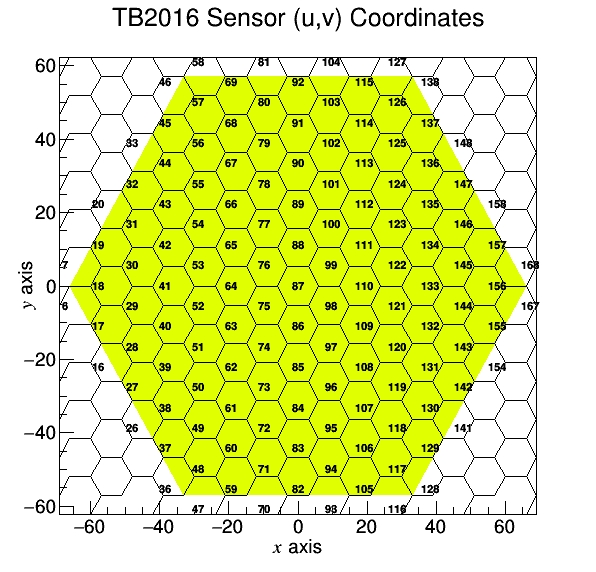
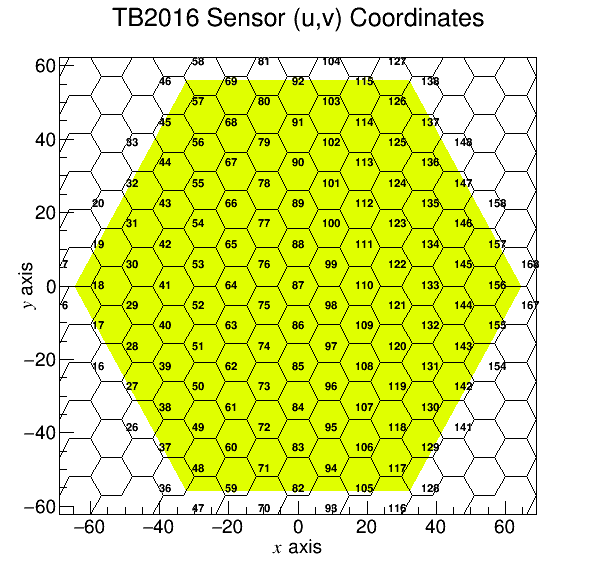
add more info to createIDMap

diff --git a/bin/createIDMap.cc b/bin/createIDMap.cc
@@ -42,9 +42,9 @@ int main()
   hsensor.SetName("hsensor");
   hsensor.SetTitle("sensor");
 
-  // make slightly larger than reality, so that we include
+  // make slightly smaller so that we identify
   // mouse bitten cells
-  double S = 1.0001*SIDE;
+  double S = 0.98*SIDE;
   double H = S*sqrt(3)/2;  // center to side distance
   double x[7], y[7];
   x[0] = -S/2; y[0] = -H;
@@ -55,10 +55,10 @@ int main()
   x[5] =  S/2; y[5] = -H;
   x[6] = -S/2; y[6] = -H;
   hsensor.AddBin(7, x, y);
-  // get the single hexagonal bin that represents
-  // the boundary of sensor
-  //TIter it(hsensor.GetBins());
-  //TH2PolyBin* sensor = (TH2PolyBin*)it();
+  //get the single hexagonal bin that represents
+  //the boundary of sensor
+  TIter it(hsensor.GetBins());
+  TH2PolyBin* sensor = (TH2PolyBin*)it();
 
   // loop over bins in 2-D histogram, determine which
   // ones lie within sensor, and write out the bin
@@ -89,15 +89,14 @@ int main()
 
   char record[80];
   ofstream sout("sensor_cellid_uv_map.txt");
-  sprintf(record, "%6s\t%6s %6s %6s\t%10s %10s",
-	  "", "cellid", "u", "v", "x", "y");
+  sprintf(record, "%6s %6s %6s %6s\t%10s %10s",
+	  "posid", "cellid", "u", "v", "x", "y");
   cout << record << endl;
   sout << record << endl;
 
   // loop
   TList* bins = map->GetBins();
   TIter next(bins);
-  int ncell = 0;
   TText text;
   text.SetTextSize(0.02);
   text.SetTextAlign(22);  // centered
@@ -171,6 +170,36 @@ int main()
       x *= 10; // change to mm
       y *= 10;
 
+      int posid = 0;
+      if ( ! sensor->IsInside(x, y) )
+	{
+	  // boundary cell, determine type
+	  if ( v > 3 )
+	    {
+	      // either lower or upper left
+	      if ( u < -3 )
+		posid = 3; // upper
+	      else
+		posid = 4; // lower
+	    }
+	  else if ( v < -3 )
+	    {
+	      // either lower or upper right
+	      if ( u > 3 )
+		posid = 6; // lower
+	      else
+		posid = 1; // upper
+	    }
+	  else
+	    {
+	      // either lower or upper
+	      if ( u > 0 )
+		posid = 5; // lower
+	      else
+		posid = 2; // upper
+	    }
+	}
+
       csensor.cd();
       sprintf(record, "%d", binnumber);
       text.DrawText(x, y, record); 
@@ -179,12 +208,10 @@ int main()
       sprintf(record, "%d,%d", u, v);
       text.DrawText(x, y, record); 
 
-      sprintf(record, "%6d\t%6d %6d %6d\t%10.3f %10.3f", 
-	      ncell, binnumber, u, v, x, y);
+      sprintf(record, "%6d %6d %6d %6d\t%10.3f %10.3f", 
+	      posid, binnumber, u, v, x, y);
       cout << record << endl;
       sout << record << endl;
-      
-      ncell++;
     }
   sout.close();
 

diff --git a/src/HGCCellMap.cc b/src/HGCCellMap.cc
@@ -28,24 +28,29 @@ HGCCellMap::HGCCellMap(string inputFilename)
     }
   string line;
   getline(fin, line);
-  while ( getline(fin, line) )
-    {
-      int n, cellid, u, v;
-      double x, y;
-      fin >> n >> cellid >> u >> v >> x >> y;
 
+  int posid, cellid, u, v;
+  double x, y;  
+  while (fin >> posid >> cellid >> u >> v >> x >> y)
+    {
       pair<int, int> uv(u, v);
       _uvmap[cellid] = uv;
 
       pair<double, double> xy(x, y);
-      pair<int, int> key(u, v);
-      _xymap[key] = xy;
+      _xymap[uv] = xy;
+
+      pair<pair<int, int>, int> cell(uv, posid);
+      _cells.push_back(cell);
     }
+  fin.close();
 }
 
 HGCCellMap::~HGCCellMap() 
 {
 }
+
+std::vector<pair<pair<int, int>, int> >
+HGCCellMap::cells() { return _cells; }
 
 
 pair<int, int>
@@ -60,7 +65,7 @@ HGCCellMap::operator()(size_t cellid)
 pair<double, double>
 HGCCellMap::operator()(int u, int v)
 {
-  pair<int, int> key(u,v);
+  pair<int, int> key(u, v);
   if ( _xymap.find(key) != _xymap.end() )
     return _xymap[key];
   else
@@ -70,6 +75,6 @@ HGCCellMap::operator()(int u, int v)
 bool
 HGCCellMap::valid(int u, int v)
 {
-  pair<int, int> key(u,v);
+  pair<int, int> key(u, v);
   return _xymap.find(key) != _xymap.end();
 }

diff --git a/plugins/HGCSSSimHitSource.h b/plugins/HGCSSSimHitSource.h
@@ -15,15 +15,14 @@
 #include "FWCore/Framework/interface/Event.h"
 #include "FWCore/ParameterSet/interface/ParameterSet.h"
 #include "FWCore/Sources/interface/ProducerSourceFromFiles.h"
-#include "DataFormats/FEDRawData/interface/FEDRawDataCollection.h"
-
 #include "FWCore/ParameterSet/interface/ConfigurationDescriptions.h"
 #include "FWCore/ParameterSet/interface/ParameterSetDescription.h"
 #include "FWCore/Utilities/interface/Exception.h"
+#include "DataFormats/FEDRawData/interface/FEDRawDataCollection.h"
 
-#include "HGCal/DataFormats/interface/HGCalTBRecHitCollections.h"
-#include "HGCal/TBStandaloneSimulator/interface/HGCSSCollections.h"
 #include "HGCal/TBStandaloneSimulator/interface/HGCCellMap.h"
+#include "HGCal/TBStandaloneSimulator/interface/HGCSSCollections.h"
+#include "HGCal/DataFormats/interface/HGCalTBRecHitCollections.h"
 
 class HGCSSSimHitSource : public edm::ProducerSourceFromFiles
 {

diff --git a/plugins/HGCSSSimHitSource.cc b/plugins/HGCSSSimHitSource.cc
@@ -3,8 +3,8 @@
 // data format and create HGCalTBRecHits
 // Harrison B. Prosper
 // -------------------------------------------------------------------------
-#include "HGCal/TBStandaloneSimulator/plugins/HGCSSSimHitSource.h"
 #include "FWCore/Framework/interface/InputSourceMacros.h"
+#include "HGCal/TBStandaloneSimulator/plugins/HGCSSSimHitSource.h"
 // -------------------------------------------------------------------------
 
 HGCSSSimHitSource::HGCSSSimHitSource
@@ -159,7 +159,7 @@ void HGCSSSimHitSource::produce(edm::Event& event)
       	  rechits->push_back(rechit);
       	}
     }
-  event.put(rechits,  _outputname);
+  event.put(rechits, _outputname);
 }
 
 void HGCSSSimHitSource::fillDescriptions

diff --git a/interface/HGCCellMap.h b/interface/HGCCellMap.h
@@ -9,22 +9,23 @@
  */
 #include <map>
 #include <string>
+#include <vector>
 
 class HGCCellMap
 {
  public:
   HGCCellMap(std::string inputFilename="");
-
   virtual ~HGCCellMap(); 
 
   std::pair<int, int> operator()(size_t cellid);
   std::pair<double, double> operator()(int u, int v);
   bool valid(int u, int v);
+  std::vector<std::pair<std::pair<int, int>, int> > cells();
 
 private:
   std::map<size_t, std::pair<int, int> > _uvmap;
   std::map<std::pair<int, int>, std::pair<double, double> > _xymap;
+  std::vector<std::pair<std::pair<int, int>, int> > _cells;
 };
-
 
 #endif

diff --git a/python/TBFileReader.py b/python/TBFileReader.py
@@ -33,9 +33,7 @@ class TBFileReader:
         print record
         print "-"*78
         for ii, record in enumerate(records):
-            t = split(record)
-            if t[0] != "Type":   continue
-            if t[1] != "Module": continue
+            if record[:4] != "----":   continue
             records = records[ii+2:]
             break
 
